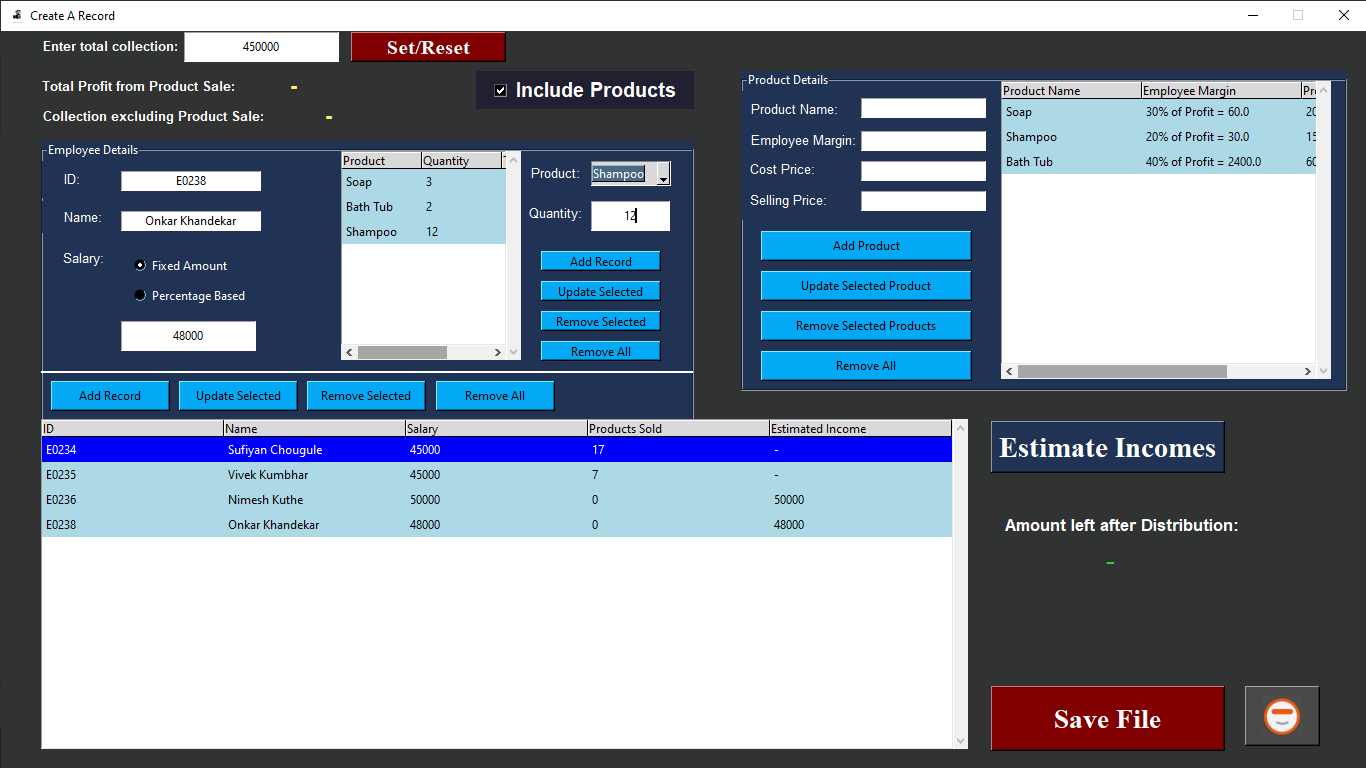
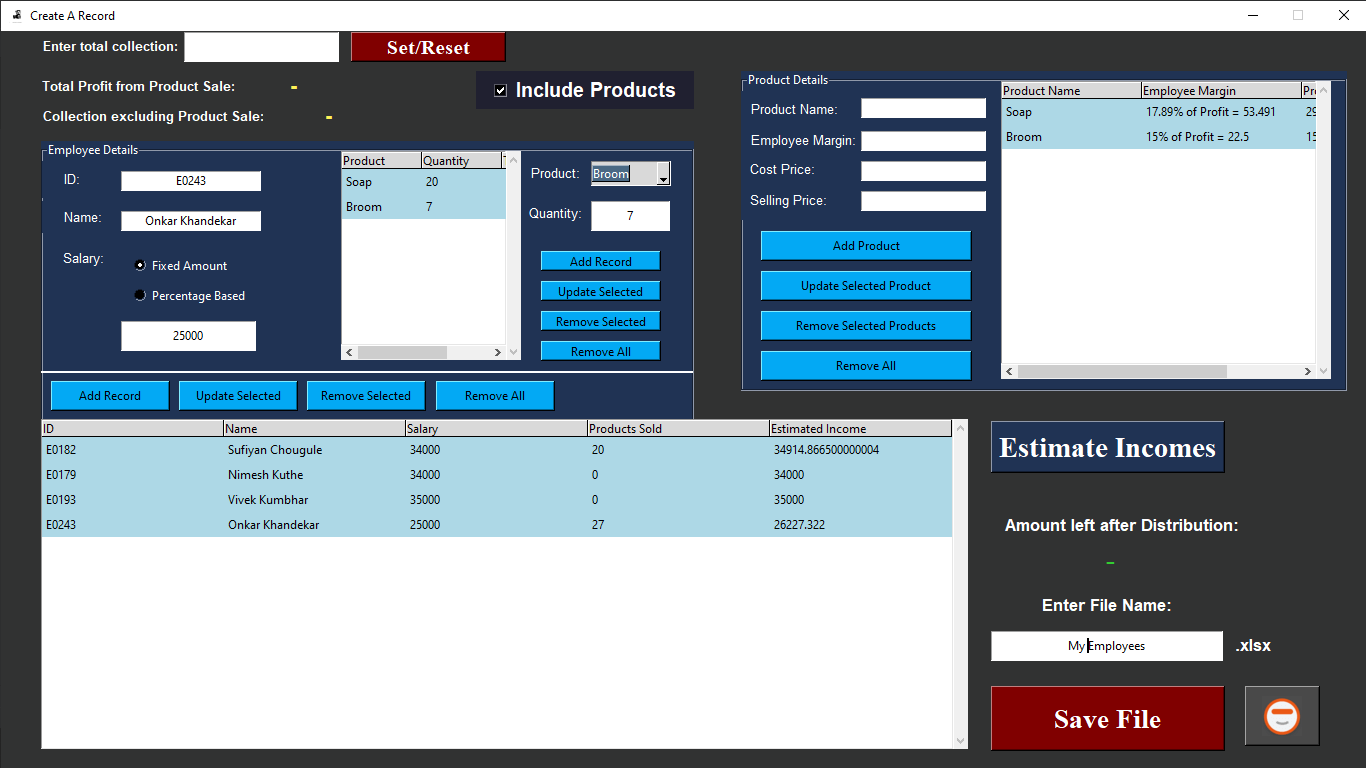
Added feature of Data Export to Excel File, Chatbot & improved data manipulation.

diff --git a/Chatbot.html b/Chatbot.html
@@ -1,22 +1,18 @@
 <!DOCTYPE html>
 <html>
   <head>
-    <title>Chatbot Example</title>
-    <link rel="stylesheet" type="text/css" href="style.css">
-  </head>
+    <title>VSON Bot</title>
+    <link rel="stylesheet" href="bot.css">
+     </head>
   <body>
-    <h1>Chatbot Example</h1>
-    <div class="chat-container">
-      <div class="chat-log"></div>
-      <div class="chat-input">
-        <select id="question-select">
-          <option value="1">What's your name?</option>
-          <option value="2">How are you?</option>
-          <option value="3">What's your favorite color?</option>
-        </select>
-        <button id="send-btn">Send</button>
-      </div>
-    </div>
-    <script src="script.js"></script>
+    <div class="main">
+        <div class="content">
+          <h2> WELCOME TO INCOME ESTIMATOR - A DESKTOP APPLICATION </h2>
+         
+              <div class="bot-container">
+              <iframe width="380" height="530" src="https://embed.wotnot.io/4SMKqHMA2Pcf15540766231134CO1XBM/bot/4fBR3igPgmhw155457371621FzENs8CY?display_header=false&history_retention=false" frameborder="2" style="border-radius: 25px;" ></iframe>
+          </div>
+        </div>
+      </div>   
   </body>
 </html>

diff --git a/bot.css b/bot.css
@@ -1,0 +1,31 @@
+body {
+  margin: 0px;
+  padding: 0px;
+  font-family: Arial, sans-serif;
+  background-color: rgb(19, 0, 54) ;
+  background-image: url("Required Images/chatbotimg.png");
+  background-repeat: no-repeat;
+  background-size:auto;
+}
+
+h2{
+    font-family: 'Times New Roman', Times, serif;
+    font-size: 10;
+    font-style: italic;
+    color: rgb(252, 253, 255);
+    text-align: center;
+}
+h3{
+    font-family: 'Times New Roman', Times, serif;
+    color: blueviolet;
+}
+
+.bot-container{
+    padding-bottom: 10px;
+    padding-left: 790px;
+    padding-right: 15px;
+    border-radius: 25px;
+    position: relative;
+    height: 530px;
+    width: 380px;
+}

diff --git a/IncomeEstimator.py b/IncomeEstimator.py
@@ -3,6 +3,9 @@ from tkinter import filedialog, messagebox, ttk
 import tkinter.font as tkfont
 from PIL import ImageTk, Image
 import webbrowser
+import os
+import openpyxl
+from openpyxl.styles import Alignment, Font
 
 
 def close_win():
@@ -18,7 +21,8 @@ def open_chatbot():
 
 
 def browse_folder():
-    filedialog.askopenfilename(initialdir="Records", title="Select a File", filetypes=(("Text files", "*.txt*"), ("all files", "*.*")))
+    filepath = filedialog.askopenfilename(initialdir="Saved Files", title="Select a File", filetypes=(("All files", "*.*"), ("all files", "*.*")))
+    os.startfile(filepath)
 
 
 def open_create():
@@ -32,12 +36,56 @@ def open_create():
                 est_inc = 0
                 for item in emp_prod_profit:
                     if value_lst[0] == item[0]:
-                        est_inc = float(value_lst[2]) + float(item[1])
+                        est_inc = round_to_3(float(value_lst[2]) + float(item[1]))
                         break
                 tree_view3.set(index, 'Estimated Income', est_inc)
 
     def save_file():
-        pass
+        filename = str(entry_10.get())
+        if filename == '':
+            messagebox.showinfo('No Name', "Please Enter a name for the file.")
+        elif os.path.isfile("Saved Files/"+filename+".xlsx"):
+            messagebox.showinfo('File Exists', "File with same name already exists, please enter a different name.")
+        else:
+            wb = openpyxl.Workbook()
+            ws = wb.active
+            column_names = ["ID", "Name", "Salary", "Products Sold", "Estimated Income"]
+            ws.append(column_names)
+            for index in tree_view3.get_children():
+                item = tree_view3.item(index)['values']
+                ws.append(item)
+            ws.column_dimensions['A'].width = 25
+            ws.column_dimensions['B'].width = 30
+            ws.column_dimensions['C'].width = 20
+            ws.column_dimensions['D'].width = 15
+            ws.column_dimensions['E'].width = 29
+            ws.column_dimensions['G'].width = 28
+            ws.column_dimensions['H'].width = 18
+            i = 0
+            for i in range(len(tree_view3.get_children())+1):
+                i += 1
+                ws.cell(row=i, column=1).alignment = Alignment(horizontal='left')
+                ws.cell(row=i, column=2).alignment = Alignment(horizontal='left')
+                ws.cell(row=i, column=3).alignment = Alignment(horizontal='center')
+                ws.cell(row=i, column=4).alignment = Alignment(horizontal='center')
+                ws.cell(row=i, column=5).alignment = Alignment(horizontal='center')
+            ws.cell(row=1, column=7, value="Total Products:")
+            ws.cell(row=2, column=7, value="Profit from Product Sale:")
+            ws.cell(row=3, column=7, value="Collection excluding Products:")
+            ws.cell(row=4, column=7, value="Amount Left after Distribution:")
+            ws.cell(row=1, column=8, value=str(entry_1.get()))
+            ws.cell(row=2, column=8, value=lbl_3.cget('text'))
+            ws.cell(row=3, column=8, value=lbl_5.cget('text'))
+            ws.cell(row=4, column=8, value=lbl_16.cget('text'))
+            bold_font = Font(bold=True)
+            for i in range(5):
+                i += 1
+                ws.cell(row=i, column=7).font = bold_font
+                ws.cell(row=i, column=8).font = bold_font
+            for cell in ws[1]:
+                cell.font = bold_font
+            wb.save("Saved Files/"+filename+".xlsx")
+            messagebox.showinfo("File Saved", "The file is successfully saved in 'Saved Files' folder.")
 
     def unique_check(value):
         if value == 1:
@@ -66,6 +114,7 @@ def open_create():
         sum_prof = 0
         for record in tree_view1.get_children():
             sum_prof = sum_prof + float(tree_view1.item(record)['values'][2])
+        return sum_prof
 
     def close_action():
         messagebox_toplevel = Toplevel(root)
@@ -253,15 +302,18 @@ def open_create():
                                 if prod_real[0] == prod_img[0]:
                                     emp_profit = emp_profit + float(prod_real[2])*float(prod_img[1][:prod_img[1].index('%')])/100
                                     break
+                        print("EMP_PROD_PROFIT: ", emp_prod_profit)
                         for item in emp_prod_profit:
                             if item == [str(entry_2.get())]:
                                 emp_prod_profit[emp_prod_profit.index(item)].append(emp_profit)
+                        print("EMP_PROD_PROFIT: ", emp_prod_profit)
                     count_tree3 += 1
             else:
                 fill_data_msg(1, "Data Incomplete", "Please fill all the required details.")
 
     def upd_rec_tree(a):
         global products
+        global emp_prod_profit
         if a == 1:
             record_tuple = tree_view1.selection()
             record = record_tuple[0]
@@ -294,6 +346,8 @@ def open_create():
                     for child_tr2 in tree_view1.get_children():
                         if tree_view1.item(child_tr2)['values'][0] == old_value:
                             tree_view1.set(child_tr2, 'Product', entry_6.get())
+                            new_tot_prof = float(tree_view1.item(child_tr2)['values'][1])*float(tree_view2.item(record)['values'][2])
+                            tree_view1.set(child_tr2, 'Total Profit', new_tot_prof)
                     products[upd_idx] = entry_6.get()
                     cmb_box1.set('')
                     cmb_box1.config(values=products)
@@ -317,6 +371,27 @@ def open_create():
                             tot_prod = tot_prod + int(tree_view1.item(index)["values"][1])
                     value = (str(entry_2.get()), str(entry_3.get()), data, tot_prod, "-")
                     tree_view3.item(record, values=value)
+                    for item in emp_prod_profit:
+                        if item[0] == str(entry_2.get()):
+                            print(item[0], " = ", str(entry_2.get()))
+                            emp_prod_profit.remove(emp_prod_profit[emp_prod_profit.index(item)])
+                    if tot_prod != 0:
+                        emp_prod_profit.append([str(entry_2.get())])
+                        emp_profit = 0
+                        for index1 in tree_view1.get_children():
+                            for index2 in tree_view2.get_children():
+                                prod_real = tree_view1.item(index1)['values']
+                                prod_img = tree_view2.item(index2)['values']
+                                print(prod_real, "\n", prod_img)
+                                if prod_real[0] == prod_img[0]:
+                                    emp_profit = emp_profit + float(prod_real[2]) * float(
+                                        prod_img[1][:prod_img[1].index('%')]) / 100
+                                    break
+                        print("EMP_PROD_PROFIT: ", emp_prod_profit)
+                        for item in emp_prod_profit:
+                            if item == [str(entry_2.get())]:
+                                emp_prod_profit[emp_prod_profit.index(item)].append(emp_profit)
+                        print("EMP_PROD_PROFIT: ", emp_prod_profit)
             else:
                 fill_data_msg(1, "Data Incomplete", "Please fill all the required details.")
 
@@ -340,7 +415,11 @@ def open_create():
         if a == 3:
             records = tree_view3.selection()
             for record in records:
+                for item in emp_prod_profit:
+                    if item[0] == tree_view3.item(record)['values'][0]:
+                        emp_prod_profit.remove(item)
                 tree_view3.delete(record)
+                print(emp_prod_profit)
 
     def rem_all_rec_tree(a):
         global products
@@ -357,6 +436,7 @@ def open_create():
         if a == 3:
             for record in tree_view3.get_children():
                 tree_view3.delete(record)
+            emp_prod_profit.clear()
 
     def round_to_3(data):
         return round(data, 3)
@@ -491,7 +571,7 @@ def open_create():
                         fieldbackground="white")
         style.map('Treeview', background=[('selected', 'blue')])
 
-        btn_1 = Button(child, bg="#800000", fg="white", text="Save File", font=("Times New Roman", 20, "bold"))
+        btn_1 = Button(child, bg="#800000", fg="white", text="Save File", font=("Times New Roman", 20, "bold"), command=save_file)
         btn_1.place(x=990, y=655, width=234, height=65)
         btn_2 = Button(child, bg="#203354", fg="white", text="Estimate Incomes", font=("Times New Roman", 22, "bold"), command=estimate_inc)
         btn_2.place(x=990, y=390, width=234, height=52)
@@ -572,6 +652,12 @@ def open_create():
         lbl_17.place(x=40, y=340, width=652, height=1)
         lbl_17 = Label(child, bg="white")
         lbl_17.place(x=40, y=341, width=652, height=1)
+        lbl_18 = Label(child, fg="white", bg="#313232", text="Enter File Name:",
+                       font=("Roboto", 13, "bold"))
+        lbl_18.place(x=990, y=560, width=232, height=30)
+        lbl_19 = Label(child, fg="white", bg="#313232", text=".xlsx",
+                       font=("Caliber", 13, "bold"))
+        lbl_19.place(x=1227, y=600, width=50, height=30)
 
         entry_1 = Entry(child, justify=CENTER, validate="key", validatecommand=(validate1, "%P"))
         entry_1.place(x=183, y=1, width=155, height=30)
@@ -594,6 +680,8 @@ def open_create():
         entry_8.place(x=860, y=130, width=125, height=20)
         entry_9 = Entry(child, justify=CENTER, state=DISABLED, validate="key", validatecommand=(validate1, "%P"))
         entry_9.place(x=860, y=160, width=125, height=20)
+        entry_10 = Entry(child, justify=CENTER)
+        entry_10.place(x=990, y=600, width=232, height=30)
 
         cmb_box1 = ttk.Combobox(child, values=[], state=DISABLED)
         cmb_box1.place(x=590, y=130, width=80, height=25)
@@ -617,10 +705,10 @@ root = Tk()
 root.title("Income Estimator")
 root.geometry("540x440+0+0")
 root.resizable(False, False)
-root.iconbitmap("app_icon.ico")
+root.iconbitmap("Required Images/app_icon.ico")
 root.protocol("WM_DELETE_WINDOW", close_win)
-img = ImageTk.PhotoImage(Image.open("MainWindowImage.jpg"))
-chat_img = ImageTk.PhotoImage(Image.open("chat_image.png"))
+img = ImageTk.PhotoImage(Image.open("Required Images/MainWindowImage.jpg"))
+chat_img = ImageTk.PhotoImage(Image.open("Required Images/chat_image.png"))
 img_lbl = Label(image=img)
 img_lbl.pack()
 title_lbl = Label(root, text="Income Estimator", bg="#800000", font=("Impact", 40), fg="#FFD700", justify="center")
